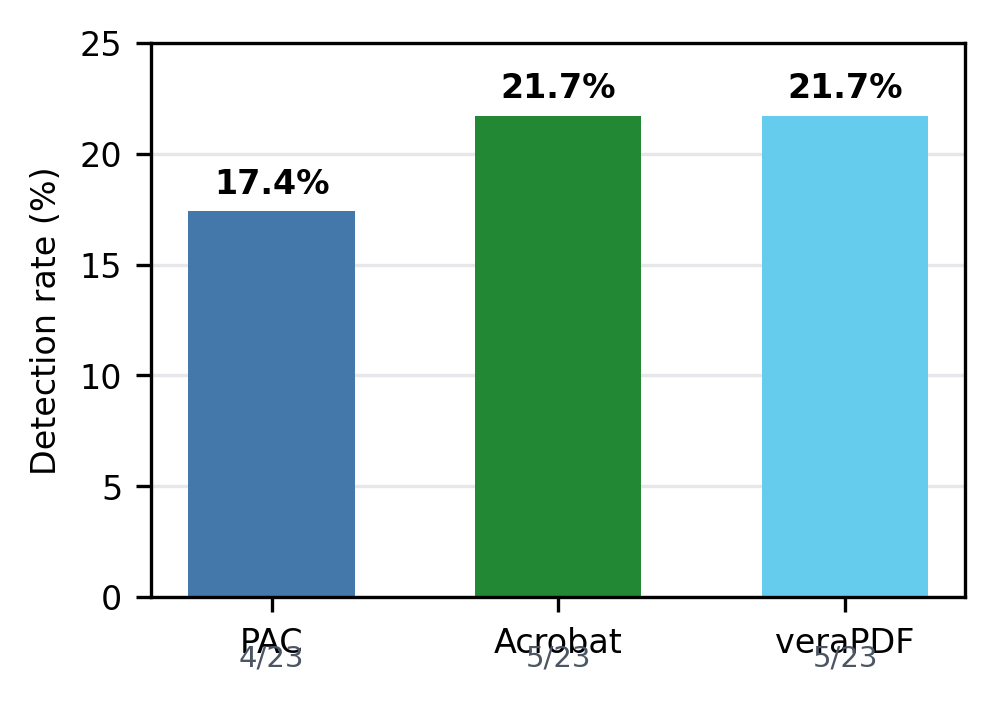
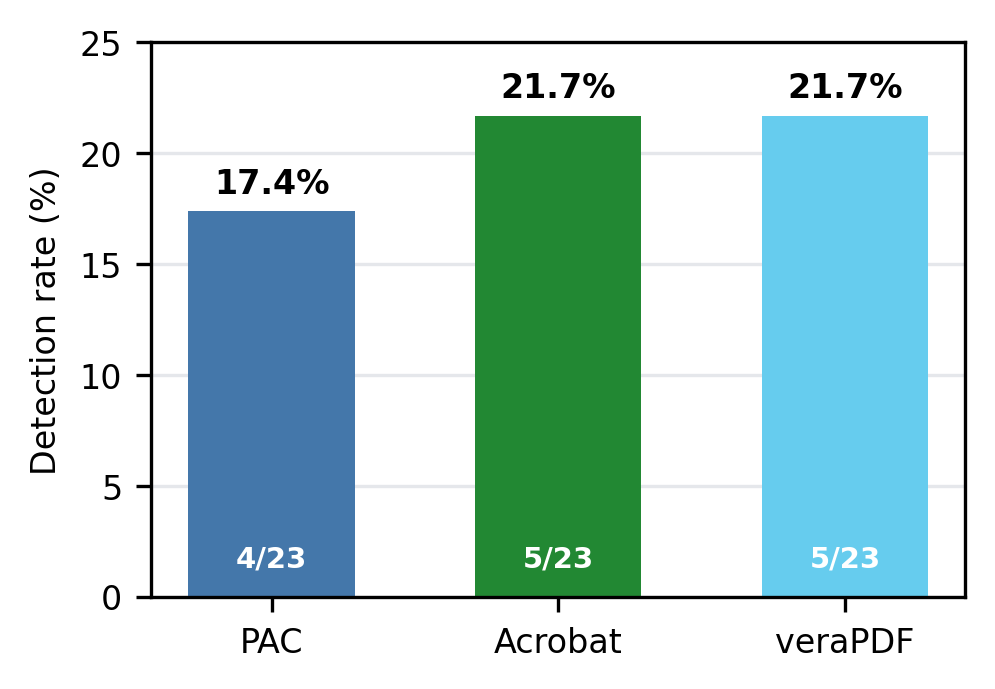
Refine paper methodology, artifact availability, and figures

diff --git a/paper/pdfa11ymut_ieee.tex b/paper/pdfa11ymut_ieee.tex
@@ -1,6 +1,6 @@
 \documentclass[conference]{IEEEtran}
 
-\usepackage{graphicx}
+\usepackage[final]{graphicx}
 \usepackage{booktabs}
 \usepackage{array}
 \usepackage{url}
@@ -14,14 +14,15 @@
 \title{PDFa11yMut: Mutation-Based Evaluation of Automated PDF Accessibility Validators}
 
 \author{
-\IEEEauthorblockN{Gauri Jain}
-\IEEEauthorblockA{University of California, Santa Cruz\\
-gjain1@ucsc.edu}
+\IEEEauthorblockN{Author Name(s) Omitted for Draft}
+\IEEEauthorblockA{Affiliation Omitted for Draft\\
+Email Omitted for Draft}
 }
 
 \maketitle
 
 \begin{abstract}
+\normalfont
 Automated validators are widely used to assess PDF accessibility, but their detection boundaries are difficult to measure without controlled ground truth. A validator-clean PDF may be free of the implemented machine-checkable failures, or it may contain accessibility-relevant structural defects that the validator does not detect. This paper introduces PDFa11yMut, a controlled mutation-based benchmark for evaluating automated PDF accessibility validators against independently verified PDF structure defects.
 
 We generated 23 verified mutants from five validator-clean golden PDFs using five mutation operators targeting reading order, omitted assistive structure, heading hierarchy, marked-content association, and internal marked-content sequence. Each generated mutant was independently verified at the PDF structure level and checked for parseability, page-count preservation, and absence of detected visual differences. We then evaluated the mutants with three validators: PAC, Adobe Acrobat Accessibility Checker, and veraPDF, with veraPDF run using the PDF/UA-1 profile.
@@ -94,7 +95,7 @@ Accessibility mutation testing has also been explored for mobile applications. S
 
 \subsection{Mutation Testing for Benchmark Auditing}
 
-GateTruth applies mutation testing to a different domain: auditing register-transfer-level design benchmarks for large language models \cite{bhadra2026gatetruth}. It is relevant here only as a methodological analogy. Its core claim is that an evaluator should be tested against controlled, meaningful defects before its pass rates are treated as strong evidence. PDFa11yMut adapts that logic to PDF accessibility validators: a validator-clean result is not sufficient evidence that a checker would detect accessibility-relevant structural defects unless the checker is tested against verified mutants.
+GateTruth applies mutation testing to register-transfer-level design benchmarks for large language models \cite{bhadra2026gatetruth}, demonstrating how controlled mutations can be used to audit whether an evaluation framework reliably distinguishes valid artifacts from defective ones. Its central methodological principle is that evaluator reliability should itself be tested against controlled, meaningful defects before benchmark pass rates are treated as strong evidence. PDFa11yMut applies this benchmark-auditing principle to PDF accessibility validation. Rather than assuming that validator-clean output demonstrates the absence of accessibility-relevant structural defects, PDFa11yMut introduces independently verified mutations and measures whether they survive automated validation. In this way, mutation testing provides a systematic mechanism for characterizing the detection boundaries of PDF accessibility validators.
 
 \section{Methodology}
 
@@ -126,7 +127,21 @@ M05 & Internal MCID sequence reversal & Reverse the internal marked-content sequ
 \end{tabular}
 \end{table*}
 
-The practical impact of each operator comes from the difference between the visual page and the structure exposed to assistive technologies. M01 models a case where the page looks correct but the assistive reading sequence is wrong: two list items that visually appear as ``submit the form'' and then ``wait for confirmation'' may be exposed in the opposite order. M02 models visible content that remains on the page but is absent from the tagged representation. M03 models a misleading document outline, such as jumping from H1 to H3 without an intervening H2. M04 models a tag that occupies the expected structural position but points to the wrong visible content, such as a list item tag associated with its sibling's text. M05 models cases where a single structural element exists but its internal content chunks are exposed in the wrong order.
+The practical impact of each operator comes from the difference between the
+visual page and the structure exposed to assistive technologies. M01 models a
+case where the page looks correct but the assistive reading sequence is wrong:
+two list items that visually appear as ``submit the form'' and then ``wait for
+confirmation'' may be exposed in the opposite order. M02 models visible content
+that remains on the page but is absent from the tagged representation, such as
+a visible heading that is no longer exposed through the document structure.
+M03 models a misleading document outline, such as jumping from H1 to H3 without
+an intervening H2. M04 models a tag that occupies the expected structural
+position but points to the wrong visible content; for example, the first list
+item's structural tag may reference the text belonging to the second list item,
+while the visual page remains unchanged. M05 models a single structural element
+whose internal content chunks are exposed in the wrong sequence; for example,
+multiple marked-content chunks belonging to one paragraph or list item may be
+encountered in reverse order by software consuming the tagged structure.
 
 \subsection{Mutant Generation and Verification}
 
@@ -147,7 +162,7 @@ Validator detection was separated from mutation verification. A mutant was inclu
 
 The experiment evaluated PAC, Adobe Acrobat Accessibility Checker, and veraPDF. PAC evidence identifies PAC 26.1. The recorded PAC experiment found that all golden PDFs passed. Among mutants, PAC reported Structure Elements failures for G01-M03, G02-M03, G03-M03, and G04-M03. All other generated mutants were recorded as passing.
 
-Acrobat was used as a widely available commercial PDF accessibility checker. The recorded Acrobat results found no automated failures in the five golden PDFs. Among mutants, Acrobat detected G01-M03, G02-M03, G03-M03, G04-M03, and G02-M04. For the M03 mutants, Acrobat reported heading nesting failures. For G02-M04, Acrobat reported list-related failures. The available experimental notes preserve the Acrobat rule outcomes; the exact Acrobat build is recorded as a reporting limitation.
+Adobe Acrobat Continuous Release version 2026.001.21789 (64-bit) was used as a widely available commercial PDF accessibility checker. The recorded Acrobat results found no automated failures in the five golden PDFs. Among mutants, Acrobat detected G01-M03, G02-M03, G03-M03, G04-M03, and G02-M04. For the M03 mutants, Acrobat reported heading nesting failures. For G02-M04, Acrobat reported list-related failures.
 
 veraPDF was used as an open-source standards-oriented validator with the PDF/UA-1 validation profile. The veraPDF report used version 1.30.2 and the GreenField parser. veraPDF detected G01-M03, G02-M03, G03-M03, G04-M03, and G02-M04. The M03 mutants failed ISO 14289-1:2014 Clause 7.4.2 Test 1. G02-M04 failed four list-structure checks under ISO 14289-1:2014 Clause 7.2.
 
@@ -284,7 +299,7 @@ The results support a practical distinction between using validators as conforma
 
 \textbf{Mutation operator coverage.} The five mutation operators target structure-level defects. They do not cover all PDF accessibility problems, such as alternative text quality, table header semantics, language metadata, color contrast, form labeling, or natural-language reading-order coherence.
 
-\textbf{Validator configuration.} The results depend on the validator versions and settings used in the experiment. Different versions or configurations may report different outcomes. The available evidence records PAC 26.1 and veraPDF 1.30.2; the exact Acrobat build is a reporting limitation.
+\textit{Validator configuration.} The results depend on the validator versions and settings used in the experiment. Different versions or configurations may report different outcomes. The evaluated versions were PAC 26.1, Adobe Acrobat Continuous Release 2026.001.21789 (64-bit), and veraPDF 1.30.2.
 
 \textbf{Detection coding.} The study codes detection based on relevant automated validator failures. Some validator outputs may include warnings, manual-check prompts, or failures that do not correspond directly to the injected mutation. This paper treats only relevant automated failures as detections.
 
@@ -292,15 +307,39 @@ The results support a practical distinction between using validators as conforma
 
 \section{Limitations and Future Work}
 
-Future work should expand the corpus to include more document genres, authoring tools, and structural patterns. Additional mutation operators should target table header associations, alternative text, artifact tagging, language metadata, form fields, links, annotations, and reading-order defects that require semantic interpretation.
+This study establishes an initial mutation-based methodology for evaluating
+automated PDF accessibility validators using independently verified structural
+defects. The present benchmark focuses on five structure-level mutation
+operators applied across five golden PDFs, enabling controlled comparison of
+validator behavior while preserving independently verified ground truth.
+Future work can build on this methodology by introducing additional mutation
+operators and document structures to investigate whether the operator-specific
+detection patterns observed here generalize across broader PDF accessibility
+scenarios.
 
-The benchmark should also be packaged as a public dataset with machine-readable manifests, mutation verification records, and validator result files. Releasing the corpus and scripts would allow other researchers to reproduce the results and evaluate additional validators. Future work can also extend PDFa11yMut by measuring how surviving mutants affect assistive-technology output and remediation decisions. This would complement the present benchmark, which focuses on whether automated validators detect independently verified structural mutations.
+The public PDFa11yMut repository provides machine-readable analysis artifacts
+and benchmark scripts to support reproduction and extension of the reported
+results. Future work can extend PDFa11yMut by evaluating additional validators,
+studying the effects of surviving mutants on assistive-technology output, and
+examining how mutation-based benchmarks can inform validator regression testing
+and remediation workflows.
 
 \section{Artifact Availability}
 
-For reproducibility, PDFa11yMut should be released with the golden PDFs, generated mutants, mutation-generation scripts, mutation-verification records, validator result matrix, and analysis workbook. The release should preserve N/A cases explicitly and include machine-readable metadata for each mutant: golden PDF ID, mutation operator, target object, intended accessibility effect, verification status, visual-preservation result, and validator outcomes.
+The PDFa11yMut research artifact is publicly available at
+\url{https://github.com/gaurijain21/pdfa11ymut}.
+The repository contains the paper source and figures, machine-readable
+analysis data, the validator detection matrix, the analysis workbook,
+and scripts used to generate the experimental analysis and paper
+figures. The released data preserve N/A cases explicitly and report
+per-mutant validator outcomes, per-operator detection rates, overall
+detection rates, and validator agreement results.
 
-The current analysis artifacts include the full detection matrix, per-operator rates, validator agreement table, and paper-ready analysis notes. Before publication, these should be packaged in a public repository and, ideally, archived with a persistent identifier.
+The current public release provides the reproducible analysis artifacts
+and benchmark scripts associated with the results reported in this paper.
+The golden PDFs, generated mutant PDFs, and raw validator reports are not
+included in the public release while redistribution rights and potential
+identifying or private information are reviewed.
 
 \section{Conclusion}
 

diff --git a/scripts/build_ieee_assets.py b/scripts/build_ieee_assets.py
@@ -80,7 +80,16 @@ def overall_rates():
     ax.set_axisbelow(True)
     for bar, rate, count in zip(bars, rates, counts):
         ax.text(bar.get_x() + bar.get_width() / 2, rate + 0.8, f"{rate:.1f}%", ha="center", fontsize=8, fontweight="bold")
-        ax.text(bar.get_x() + bar.get_width() / 2, -3.1, count, ha="center", fontsize=7, color="#4b5563")
+        ax.text(
+            bar.get_x() + bar.get_width() / 2,
+            1.1,
+            count,
+            ha="center",
+            va="bottom",
+            fontsize=7,
+            color="white",
+            fontweight="bold",
+        )
     save(fig, "figure2_overall_detection_rates.png")
 
 
@@ -90,22 +99,33 @@ def per_operator():
     acrobat = [0, 0, 100, 20, 0]
     verapdf = [0, 0, 100, 20, 0]
     x = range(len(operators))
-    width = 0.24
-    fig, ax = plt.subplots(figsize=(5.2, 2.7))
-    ax.bar([i - width for i in x], pac, width=width, color="#4477aa", label="PAC")
-    ax.bar(list(x), acrobat, width=width, color="#228833", label="Acrobat")
-    ax.bar([i + width for i in x], verapdf, width=width, color="#66ccee", label="veraPDF")
+    offset = 0.30
+    width = 0.18
+    fig, ax = plt.subplots(figsize=(5.8, 2.9))
+    bars = [
+        ax.bar([i - offset for i in x], pac, width=width, color="#4477aa", label="PAC"),
+        ax.bar(list(x), acrobat, width=width, color="#228833", label="Acrobat"),
+        ax.bar([i + offset for i in x], verapdf, width=width, color="#66ccee", label="veraPDF"),
+    ]
     ax.set_xticks(list(x), operators)
-    ax.set_ylim(0, 110)
+    ax.set_ylim(0, 120)
     ax.set_ylabel("Detection rate (%)", fontsize=8)
     ax.tick_params(axis="both", labelsize=8)
     ax.grid(axis="y", color="#e5e7eb", linewidth=0.8)
     ax.set_axisbelow(True)
-    ax.legend(loc="upper right", fontsize=7, frameon=False, ncol=3)
-    for idx, val in enumerate([100, 100, 100]):
-        ax.text(2 + (idx - 1) * width, val + 2, "100", ha="center", fontsize=6.5)
-    ax.text(3, 22, "20", ha="center", fontsize=6.5)
-    ax.text(3 + width, 22, "20", ha="center", fontsize=6.5)
+    ax.legend(loc="upper center", bbox_to_anchor=(0.5, 1.16), fontsize=7, frameon=False, ncol=3)
+    for container in bars:
+        for bar in container:
+            value = bar.get_height()
+            if value > 0:
+                ax.text(
+                    bar.get_x() + bar.get_width() / 2,
+                    value + 2,
+                    f"{value:.0f}",
+                    ha="center",
+                    va="bottom",
+                    fontsize=6.5,
+                )
     save(fig, "figure3_per_operator_detection.png")
 
 
